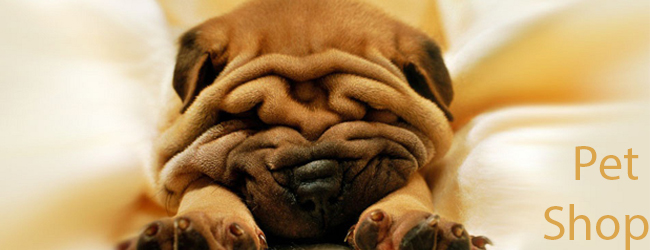
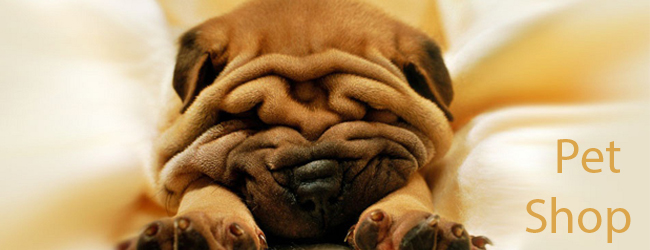
another css update

Changed region(s): [[0.8, 0.784, 1.0, 1.0], [0.8308, 0.56, 0.9846, 0.728]]

diff --git a/src/main/webapp/resources/css/pet-theme.css b/src/main/webapp/resources/css/pet-theme.css
@@ -8,10 +8,10 @@
 .footer {
 	width:650px;
 	font-family: "Myriad Pro", Myriad;
-	font-size: 10px;
+	font-size: 15px;
 	font-weight: bold;
 	text-align: center;
-	color: #e8f4fc;
+	color: #603a10;
 }
 .titlecontainer{
 	text-align: center;
@@ -82,5 +82,5 @@ body {
 	width: 30px;
 	position:absolute;
 	right:19px;
-	top:0px;
+	top:2px;
 }
